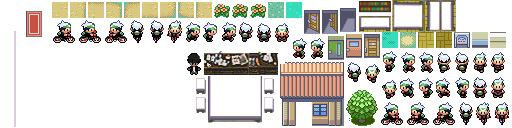
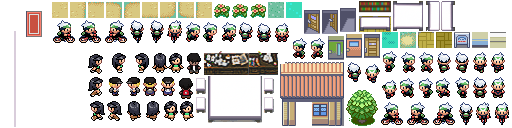
everything before mr kiyoi is done :D
i love this so much <3

Changed region(s): [[0.1562, 0.4062, 0.4062, 0.9375], [0.75, 0.0, 0.9062, 0.25]]

diff --git a/src/com/r212/pokemon/screen/GameScreen.java b/src/com/r212/pokemon/screen/GameScreen.java
@@ -1,5 +1,6 @@
 package com.r212.pokemon.screen;
 
+import java.security.Key;
 import java.util.ArrayDeque;
 import java.util.HashMap;
 import java.util.Queue;
@@ -41,6 +42,7 @@ import com.r212.pokemon.ui.DialogueBox;
 import com.r212.pokemon.ui.OptionBox;
 import com.r212.pokemon.util.Action;
 import com.r212.pokemon.util.AnimationSet;
+import org.lwjgl.Sys;
 
 import static com.r212.pokemon.screen.AngadBattleScreen.angad_defeated;
 import static com.r212.pokemon.screen.BradyBattleScreen.brady_defeated;
@@ -89,6 +91,7 @@ public class GameScreen extends AbstractScreen implements CutscenePlayer {
 	private DialogueBox dialogueBox;
 	private OptionBox optionsBox;
 	private OptionBox debugBox;
+	private boolean temp = true;
 
 	public GameScreen(PokemonGame app) {
 		super(app);
@@ -122,10 +125,30 @@ public class GameScreen extends AbstractScreen implements CutscenePlayer {
 				new Animation(0.4f/2f, atlas.findRegions("brendan_walk_south"), PlayMode.LOOP_PINGPONG),
 				new Animation(0.4f/2f, atlas.findRegions("brendan_walk_east"), PlayMode.LOOP_PINGPONG),
 				new Animation(0.4f/2f, atlas.findRegions("brendan_walk_west"), PlayMode.LOOP_PINGPONG),
-				atlas.findRegion("brendan_stand_north"),
+				atlas.findRegion("angad_stand_north"),
 				atlas.findRegion("angad_stand_south"),
 				atlas.findRegion("brendan_stand_east"),
 				atlas.findRegion("brendan_stand_west")
+		);
+		AnimationSet bradyanimation = new AnimationSet(
+				new Animation(0.4f/2f, atlas.findRegions("brendan_walk_north"), PlayMode.LOOP_PINGPONG),
+				new Animation(0.4f/2f, atlas.findRegions("brendan_walk_south"), PlayMode.LOOP_PINGPONG),
+				new Animation(0.4f/2f, atlas.findRegions("brendan_walk_east"), PlayMode.LOOP_PINGPONG),
+				new Animation(0.4f/2f, atlas.findRegions("brendan_walk_west"), PlayMode.LOOP_PINGPONG),
+				atlas.findRegion("brady_stand_north"),
+				atlas.findRegion("brady_stand_south"),
+				atlas.findRegion("brady_stand_east"),
+				atlas.findRegion("brady_stand_west")
+		);
+		AnimationSet celineanimation = new AnimationSet(
+				new Animation(0.4f/2f, atlas.findRegions("celine_walk_north"), PlayMode.LOOP_PINGPONG),
+				new Animation(0.4f/2f, atlas.findRegions("celine_walk_south"), PlayMode.LOOP_PINGPONG),
+				new Animation(0.4f/2f, atlas.findRegions("celine_walk_east"), PlayMode.LOOP_PINGPONG),
+				new Animation(0.4f/2f, atlas.findRegions("celine_walk_west"), PlayMode.LOOP_PINGPONG),
+				atlas.findRegion("celine_stand_north"),
+				atlas.findRegion("celine_stand_south"),
+				atlas.findRegion("celine_stand_east"),
+				atlas.findRegion("celine_stand_west")
 		);
 
 		Array<World> loadedWorlds = app.getAssetManager().getAll(World.class, new Array<World>());
@@ -138,22 +161,31 @@ public class GameScreen extends AbstractScreen implements CutscenePlayer {
 		player = new PlayerActor(world, world.getSafeX(), world.getSafeY(), animations, this);
 		world.addActor(player);
 
+		Actor Celine = new Actor(world, 9, 6, celineanimation);
+		LimitedWalkingBehavior celinemove = new LimitedWalkingBehavior(Celine, 10, 10, 10, 10, 0.3f, 1f, new Random());
+		Dialogue ctalk = new Dialogue();
+		ctalk.addNode(new LinearDialogueNode("Hi! Im Celine", 0, 1));
+		ctalk.addNode(new LinearDialogueNode("Check out my Roblox Hotdog Game!", 1));
+		Celine.setDialogue(ctalk);
+		Celine.setName("Celine");
+		world.addActor(Celine, celinemove);
+
 		Angad = new Actor(world, 3, 3, angadanimation);
 		Angad.setName("Angad");
 		LimitedWalkingBehavior angadsbrain = new LimitedWalkingBehavior(Angad, 0, 0, 0, 0, 0.3f, 1f, new Random());
 		world.addActor(Angad, angadsbrain);
 		Dialogue agreeting = new Dialogue();
-		DialogueNode speak = new LinearDialogueNode("You smelly person! You cannot beat me!", 0);
+		DialogueNode speak = new LinearDialogueNode("<Angad Dialogue>", 0);
 		agreeting.addNode(speak);
 		Angad.setDialogue(agreeting);
 
-		Brady = new Actor(world, 14, 11, angadanimation);
+		Brady = new Actor(world, 14, 11, bradyanimation);
 
 		Brady.setName("Brady");
 		LimitedWalkingBehavior bradysbrain = new LimitedWalkingBehavior(Angad, 0, 0, 0, 0, 0.3f, 1f, new Random());
 		world.addActor(Brady, bradysbrain);
 		Dialogue bgreeting = new Dialogue();
-		DialogueNode bspeak = new LinearDialogueNode("I am brady", 0);
+		DialogueNode bspeak = new LinearDialogueNode("<Brady Dialogue>", 0);
 		bgreeting.addNode(bspeak);
 		Brady.setDialogue(bgreeting);
 
@@ -202,19 +234,30 @@ public class GameScreen extends AbstractScreen implements CutscenePlayer {
 	
 	@Override
 	public void update(float delta) {
+		if (!dialogueBox.isVisible() && temp && (angad_defeated && !angad_done) && (brady_defeated && !brady_done)){
+
+			Dialogue kiyoi = new Dialogue();
+			kiyoi.addNode(new LinearDialogueNode("...", 0, 1));
+			kiyoi.addNode(new LinearDialogueNode("What is that?", 1, 2));
+			kiyoi.addNode(new LinearDialogueNode("Is that Mr. Kiyoi???", 2));
+			dialogueController.kiyoiDialogueStart(kiyoi);
+			temp = false;
+		}
 		if((angad_done && angad_defeated) || Gdx.input.isKeyJustPressed(Keys.F5)){
 			System.out.println("STATUS UPDATE: Angad has been defeated");
-			angad_done = false;
 			Dialogue nomoreangad = new Dialogue();
-			nomoreangad.addNode(new LinearDialogueNode("Damn you got me!\nBut this was just a one time thing.\nIm tired now, we'll rematch later", 0));
+			nomoreangad.addNode(new LinearDialogueNode("<Angad End Dialogue>", 0));
 			Angad.setDialogue(nomoreangad);
+			angad_done = false;
+			angad_defeated = true;
 		}
 		if((brady_done && brady_defeated) || Gdx.input.isKeyJustPressed(Keys.F5)){
 			System.out.println("STATUS UPDATE: Brady has been defeated");
-			brady_done = false;
 			Dialogue nomorebrady = new Dialogue();
-			nomorebrady.addNode(new LinearDialogueNode("I must've been exhausted!", 0));
+			nomorebrady.addNode(new LinearDialogueNode("<Brady End Dialogue>", 0));
 			Brady.setDialogue(nomorebrady);
+			brady_done = false;
+			brady_defeated = true;
 		}
 //		if(Gdx.input.isKeyJustPressed(Keys.F5)) {
 //			getApp().startTransition(

diff --git a/src/com/r212/pokemon/screen/AngadBattleScreen.java b/src/com/r212/pokemon/screen/AngadBattleScreen.java
@@ -85,6 +85,8 @@ public class AngadBattleScreen extends AbstractScreen implements BattleEventPlay
 	/* DEBUG */
 	private boolean uiDebug = false;
 	private boolean battleDebug = true;
+	private boolean temp;
+	private Trainer opponentTrainer;
 
 	public AngadBattleScreen(PokemonGame app) {
 		super(app);
@@ -93,12 +95,14 @@ public class AngadBattleScreen extends AbstractScreen implements BattleEventPlay
 
 		Texture bulbasaur = app.getAssetManager().get("res/graphics/pokemon/bulbasaur.png", Texture.class);
 		Texture slowpoke = app.getAssetManager().get("res/graphics/pokemon/slowpoke.png", Texture.class);
+		Texture absol = app.getAssetManager().get("res/graphics/pokemon/absol.png", Texture.class);
+		Texture braviary = app.getAssetManager().get("res/graphics/pokemon/braviary.png", Texture.class);
 
-		Trainer playerTrainer = new Trainer(Pokemon.generatePokemon("Boba", bulbasaur, app.getMoveDatabase(), 5));
-		playerTrainer.addPokemon(Pokemon.generatePokemon("Golem", slowpoke, app.getMoveDatabase(), 20));
 
-		Trainer opponentTrainer = new Trainer(Pokemon.generatePokemon("Angad - Grimer", slowpoke, app.getMoveDatabase(), 5));
-		opponentTrainer.addPokemon(Pokemon.generatePokemon("Lola", bulbasaur, app.getMoveDatabase(), 10));
+		Trainer playerTrainer = BattleScreen.playerTrainer;
+
+		opponentTrainer = new Trainer(Pokemon.generatePokemon("Angad's Absol", absol, app.getMoveDatabase(), 10));
+		opponentTrainer.addPokemon(Pokemon.generatePokemon("Angad's Braviary ", braviary, app.getMoveDatabase(), 10));
 
 		battle = new Battle(
 				playerTrainer,
@@ -135,7 +139,12 @@ public class AngadBattleScreen extends AbstractScreen implements BattleEventPlay
 	@Override
 	public void update(float delta) {
 		/* DEBUG */
-		if (battle.getState() == WIN) angad_defeated = true;
+		if (temp && battle.getState() == WIN){
+			angad_defeated = true;
+			BattleScreen.playerTrainer.addPokemon(opponentTrainer.getPokemon(0));
+			BattleScreen.addLevelPoke();
+			temp = false;
+		}
 		if (Gdx.input.isKeyJustPressed(Keys.F9)) {
 			uiDebug = !uiDebug;
 			uiStage.setDebugAll(uiDebug);

diff --git a/src/com/r212/pokemon/screen/BattleScreen.java b/src/com/r212/pokemon/screen/BattleScreen.java
@@ -80,21 +80,23 @@ public class BattleScreen extends AbstractScreen implements BattleEventPlayer {
 	private DetailedStatusBox playerStatus;
 	private StatusBox opponentStatus;
 
+	public static Trainer playerTrainer;
 
 	/* DEBUG */
 	private boolean uiDebug = false;
 	private boolean battleDebug = true;
+	private static PokemonGame app;
 
 	public BattleScreen(PokemonGame app) {
 		super(app);
+		this.app = app;
 		gameViewport = new ScreenViewport();
 		batch = new SpriteBatch();
 
 		Texture bulbasaur = app.getAssetManager().get("res/graphics/pokemon/bulbasaur.png", Texture.class);
 		Texture slowpoke = app.getAssetManager().get("res/graphics/pokemon/slowpoke.png", Texture.class);
 
-		Trainer playerTrainer = new Trainer(Pokemon.generatePokemon("Boba", bulbasaur, app.getMoveDatabase(), 5));
-		playerTrainer.addPokemon(Pokemon.generatePokemon("Golem", slowpoke, app.getMoveDatabase(), 20));
+		playerTrainer = new Trainer(Pokemon.generatePokemon("Bulbasaur", bulbasaur, app.getMoveDatabase(), 5));
 
 		Trainer opponentTrainer = new Trainer(Pokemon.generatePokemon("Grimer", slowpoke, app.getMoveDatabase(), 5));
 		opponentTrainer.addPokemon(Pokemon.generatePokemon("Lola", bulbasaur, app.getMoveDatabase(), 10));
@@ -114,6 +116,16 @@ public class BattleScreen extends AbstractScreen implements BattleEventPlayer {
 		controller = new BattleScreenController(battle, queue, dialogueBox, moveSelectBox, optionBox);
 		battle.beginBattle();
 
+	}
+
+	public static void addLevelPoke() {
+		Pokemon tempPoke = playerTrainer.getPokemon(0);
+		Trainer temp = new Trainer(Pokemon.generatePokemon(tempPoke.getName(), tempPoke.getSprite(), app.getMoveDatabase(), tempPoke.getLevel() + 5));
+		for(int i = 1; i < playerTrainer.getTeamSize(); i++) {
+			tempPoke = playerTrainer.getPokemon(i);
+			temp.addPokemon(Pokemon.generatePokemon(tempPoke.getName(), tempPoke.getSprite(), app.getMoveDatabase(), tempPoke.getLevel() + 5));
+		}
+		playerTrainer = temp;
 	}
 
 	@Override

diff --git a/src/com/r212/pokemon/screen/BradyBattleScreen.java b/src/com/r212/pokemon/screen/BradyBattleScreen.java
@@ -80,6 +80,8 @@ public class BradyBattleScreen extends AbstractScreen implements BattleEventPlay
 	/* DEBUG */
 	private boolean uiDebug = false;
 	private boolean battleDebug = true;
+	private boolean temp = true;
+	private Trainer opponentTrainer;
 
 	public BradyBattleScreen(PokemonGame app) {
 		super(app);
@@ -88,12 +90,11 @@ public class BradyBattleScreen extends AbstractScreen implements BattleEventPlay
 
 		Texture bulbasaur = app.getAssetManager().get("res/graphics/pokemon/bulbasaur.png", Texture.class);
 		Texture slowpoke = app.getAssetManager().get("res/graphics/pokemon/slowpoke.png", Texture.class);
+		Texture machamp = app.getAssetManager().get("res/graphics/pokemon/machamp.png", Texture.class);
 
-		Trainer playerTrainer = new Trainer(Pokemon.generatePokemon("Boba", bulbasaur, app.getMoveDatabase(), 5));
-		playerTrainer.addPokemon(Pokemon.generatePokemon("Golem", slowpoke, app.getMoveDatabase(), 20));
+		Trainer playerTrainer = BattleScreen.playerTrainer;
 
-		Trainer opponentTrainer = new Trainer(Pokemon.generatePokemon("brady - Grimer", slowpoke, app.getMoveDatabase(), 5));
-		opponentTrainer.addPokemon(Pokemon.generatePokemon("Lola", bulbasaur, app.getMoveDatabase(), 10));
+		opponentTrainer = new Trainer(Pokemon.generatePokemon("Brady's Machamp", machamp, app.getMoveDatabase(), 5));
 
 		battle = new Battle(
 				playerTrainer,
@@ -130,7 +131,12 @@ public class BradyBattleScreen extends AbstractScreen implements BattleEventPlay
 	@Override
 	public void update(float delta) {
 		/* DEBUG */
-		if (battle.getState() == WIN) brady_defeated = true;
+		if (temp && battle.getState() == WIN){
+			brady_defeated = true;
+			BattleScreen.playerTrainer.addPokemon(opponentTrainer.getPokemon(0));
+			BattleScreen.addLevelPoke();
+			temp = false;
+		}
 		if (Gdx.input.isKeyJustPressed(Keys.F9)) {
 			uiDebug = !uiDebug;
 			uiStage.setDebugAll(uiDebug);

diff --git a/src/com/r212/pokemon/controller/DialogueController.java b/src/com/r212/pokemon/controller/DialogueController.java
@@ -100,7 +100,7 @@ public class DialogueController extends InputAdapter {
 
 
 	}
-	
+
 	public void startDialogue(Dialogue dialogue, PokemonGame game, Actor targetActor, StorylineController storylineController) {
 		this.game = game;
 		this.targetActor = targetActor;
@@ -130,6 +130,7 @@ public class DialogueController extends InputAdapter {
 	private void progress(int index) {
 		optionBox.setVisible(false);
 		DialogueNode nextNode = traverser.getNextNode(index);
+
 		if (nextNode instanceof LinearDialogueNode) {
 			LinearDialogueNode node = (LinearDialogueNode)nextNode;
 			dialogueBox.animateText(node.getText());
@@ -138,6 +139,25 @@ public class DialogueController extends InputAdapter {
 			ChoiceDialogueNode node = (ChoiceDialogueNode)nextNode;
 			dialogueBox.animateText(node.getText());
 			optionBox.clearChoices();
+			for (String s : node.getLabels()) {
+				optionBox.addOption(s);
+			}
+		}
+	}
+	public void kiyoiDialogueStart(Dialogue dialogue) {
+		traverser = new DialogueTraverser(dialogue);
+		dialogueBox.setVisible(true);
+		DialogueNode nextNode = traverser.getNode();
+
+		if (nextNode instanceof LinearDialogueNode) {
+			LinearDialogueNode node = (LinearDialogueNode) nextNode;
+			dialogueBox.animateText(node.getText());
+
+		}
+		if (nextNode instanceof ChoiceDialogueNode) {
+			ChoiceDialogueNode node = (ChoiceDialogueNode)nextNode;
+			dialogueBox.animateText(node.getText());
+			optionBox.clear();
 			for (String s : node.getLabels()) {
 				optionBox.addOption(s);
 			}

diff --git a/src/com/r212/pokemon/screen/renderer/BattleDebugRenderer.java b/src/com/r212/pokemon/screen/renderer/BattleDebugRenderer.java
@@ -20,19 +20,19 @@ public class BattleDebugRenderer {
 	}
 	
 	public void render() {
-		shapeRenderer.begin(ShapeType.Line);
-		shapeRenderer.setColor(Color.RED);
-		shapeRenderer.rect(
-				battleRenderer.playerSquareMiddleX()-battleRenderer.squareSize(), 
-				battleRenderer.playerSquareMiddleY()-battleRenderer.squareSize(), 
-				battleRenderer.squareSize()*2, 
-				battleRenderer.squareSize()*2);
-		shapeRenderer.rect(
-				battleRenderer.opponentSquareMiddleX()-battleRenderer.squareSize(), 
-				battleRenderer.opponentSquareMiddleY()-battleRenderer.squareSize(), 
-				battleRenderer.squareSize()*2, 
-				battleRenderer.squareSize()*2);
-		shapeRenderer.end();
+//		shapeRenderer.begin(ShapeType.Line);
+//		shapeRenderer.setColor(Color.BLUE);
+//		shapeRenderer.rect(
+//				battleRenderer.playerSquareMiddleX()-battleRenderer.squareSize(),
+//				battleRenderer.playerSquareMiddleY()-battleRenderer.squareSize(),
+//				battleRenderer.squareSize()*2,
+//				battleRenderer.squareSize()*2);
+//		shapeRenderer.rect(
+//				battleRenderer.opponentSquareMiddleX()-battleRenderer.squareSize(),
+//				battleRenderer.opponentSquareMiddleY()-battleRenderer.squareSize(),
+//				battleRenderer.squareSize()*2,
+//				battleRenderer.squareSize()*2);
+//		shapeRenderer.end();
 	}
 
 }

diff --git a/src/com/r212/pokemon/PokemonGame.java b/src/com/r212/pokemon/PokemonGame.java
@@ -120,7 +120,11 @@ public class PokemonGame extends Game {
 		assetManager.load("res/graphics_packed/battle/battlepack.atlas", TextureAtlas.class);
 		assetManager.load("res/graphics/pokemon/bulbasaur.png", Texture.class);
 		assetManager.load("res/graphics/pokemon/slowpoke.png", Texture.class);
-		
+		assetManager.load("res/graphics/pokemon/absol.png", Texture.class);
+		assetManager.load("res/graphics/pokemon/machamp.png", Texture.class);
+		assetManager.load("res/graphics/pokemon/braviary.png", Texture.class);
+
+
 		for (int i = 0; i < 32; i++) {
 			assetManager.load("res/graphics/statuseffect/attack_"+i+".png", Texture.class);
 		}

diff --git a/src/com/r212/pokemon/dialogue/LinearDialogueNode.java b/src/com/r212/pokemon/dialogue/LinearDialogueNode.java
@@ -13,6 +13,11 @@ public class LinearDialogueNode implements DialogueNode {
 		this.text = text;
 		this.id = id;
 	}
+	public LinearDialogueNode(String text, int id, int add) {
+		this.text = text;
+		this.id = id;
+		setPointer(add);
+	}
 	
 	public void setPointer(int id) {
 		pointers.add(id);

diff --git a/src/com/r212/pokemon/battle/Trainer.java b/src/com/r212/pokemon/battle/Trainer.java
@@ -25,6 +25,12 @@ public class Trainer {
 			return true;
 		}
 	}
+
+	public void addLevel() {
+		for(int i = 0; i < team.size(); i++) {
+			team.get(i).addLevel();
+		}
+	}
 	
 	public Pokemon getPokemon(int index) {
 		return team.get(index);

diff --git a/src/com/r212/pokemon/model/Pokemon.java b/src/com/r212/pokemon/model/Pokemon.java
@@ -114,4 +114,8 @@ public class Pokemon {
 
 		return generated;
 	}
+
+	public void addLevel() {
+		level += 5;
+	}
 }
